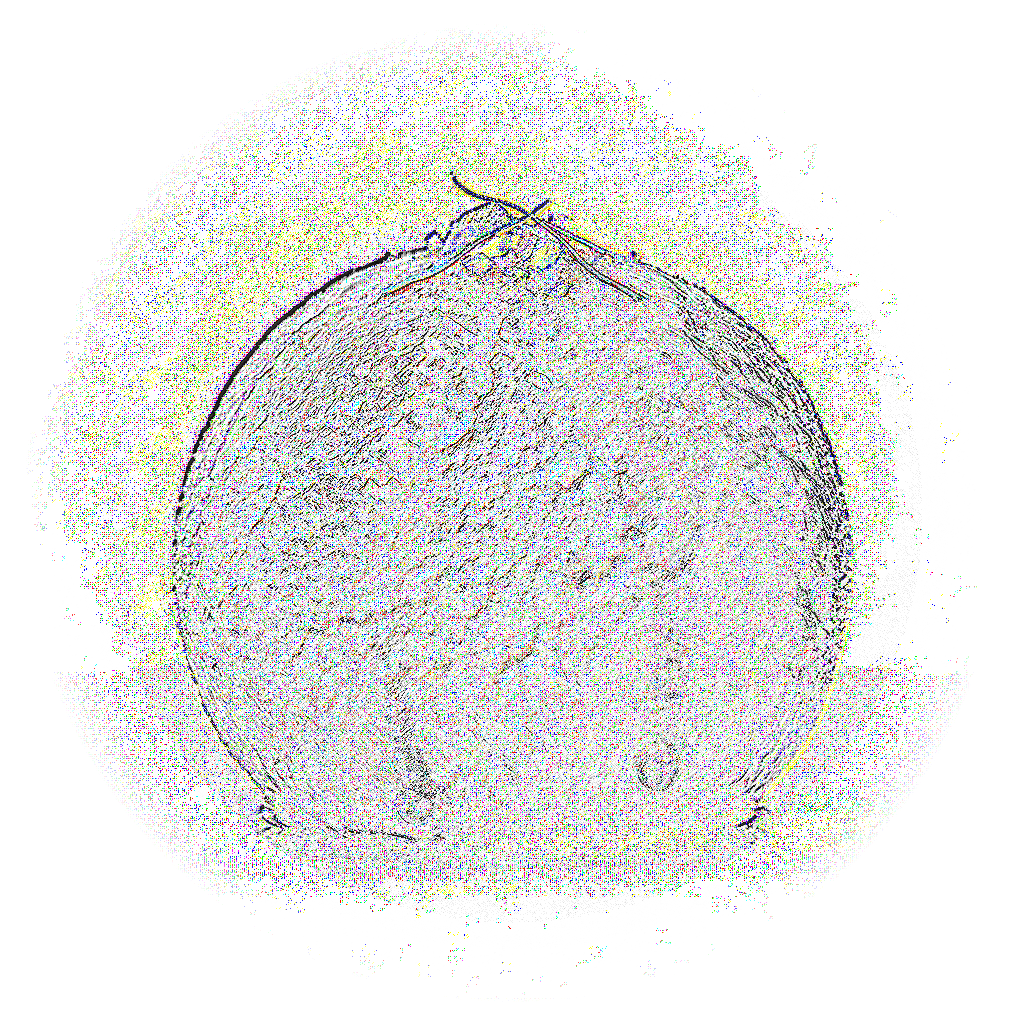
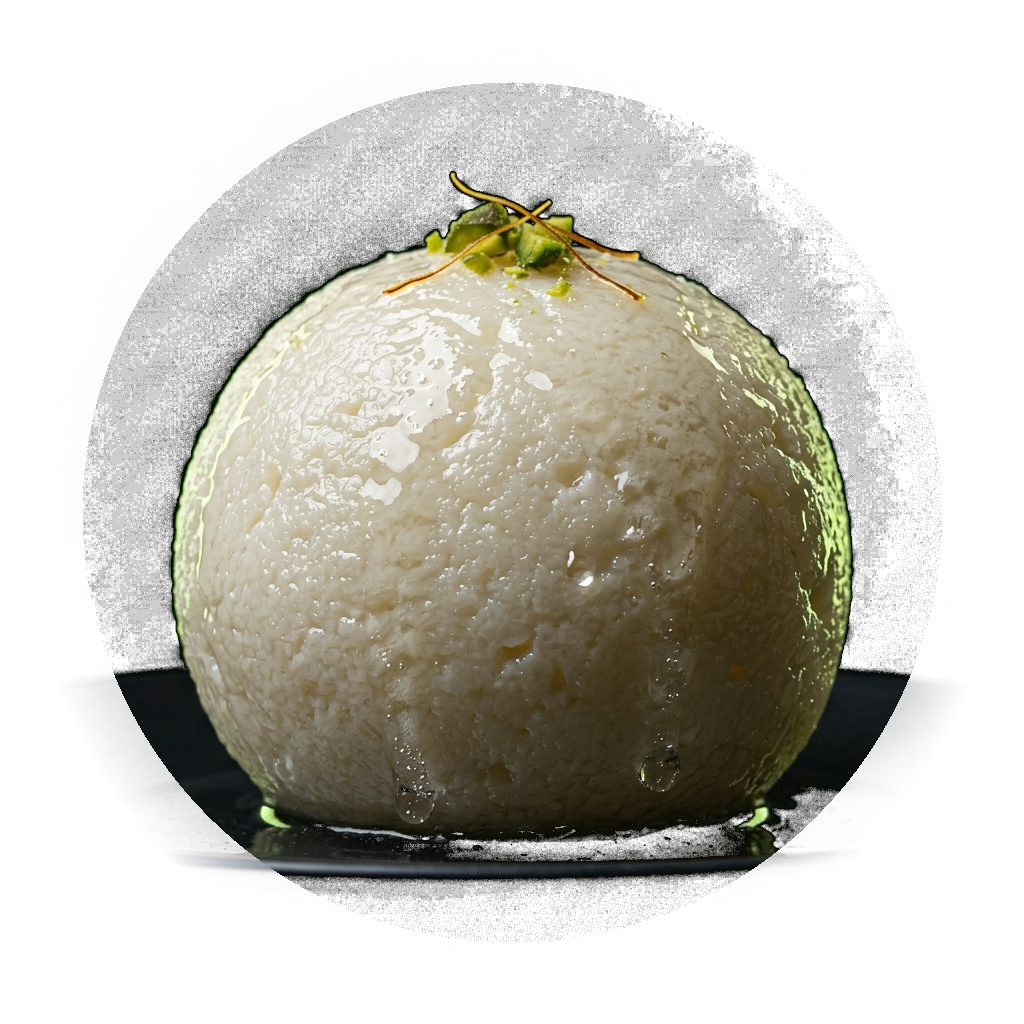
Fix rosogolla-hero.png with clean Pillow RGBA export and remove green aura/fake white circles

diff --git a/app.js b/app.js
@@ -468,8 +468,9 @@ function setupIntroOverlay() {
   let animId = null;
   const startTime = performance.now();
   const heroImg = new Image();
-  heroImg.src = "./rosogolla-hero.png";
+  heroImg.src = "./rosogolla-hero.png?v=17";
   let heroLoaded = false;
+  if (heroImg.complete && heroImg.naturalWidth > 0) heroLoaded = true;
   heroImg.onload = () => { heroLoaded = true; };
   const INTRO_DURATION = 5500; // 5.5 seconds (5-6 seconds duration) // 6.8 seconds total intro
 
@@ -677,46 +678,24 @@ function setupIntroOverlay() {
 
     ctx.restore();
 
-    // 5. The Grand 3D Kinetic King Rosogolla Sweet
+    // 5. The Grand Authentic Rosogolla Photo
     ctx.save();
-    // Ambient drop shadow beneath the sweet
-    const sweetShadow = ctx.createRadialGradient(cx, cy + rad * 0.9, 10, cx, cy + rad * 0.9, rad * 1.55);
-    sweetShadow.addColorStop(0, 'rgba(0, 255, 0, 0.32)');
-    sweetShadow.addColorStop(0.4, 'rgba(0, 0, 0, 0.85)');
+    // Ambient natural drop shadow beneath the sweet
+    const sweetShadow = ctx.createRadialGradient(cx, cy + rad * 0.75, 10, cx, cy + rad * 0.75, rad * 1.3);
+    sweetShadow.addColorStop(0, 'rgba(0, 0, 0, 0.75)');
+    sweetShadow.addColorStop(0.5, 'rgba(0, 0, 0, 0.35)');
     sweetShadow.addColorStop(1, 'rgba(0, 0, 0, 0)');
     ctx.fillStyle = sweetShadow;
     ctx.beginPath();
-    ctx.ellipse(cx, cy + rad * 0.9, rad * 1.35, rad * 0.45, 0, 0, Math.PI * 2);
+    ctx.ellipse(cx, cy + rad * 0.75, rad * 1.2, rad * 0.4, 0, 0, Math.PI * 2);
     ctx.fill();
 
-    if (heroLoaded) {
-      // Draw the hyper-realistic 8K studio photograph of authentic Bengali Rosogolla
+    if (heroLoaded || (heroImg.complete && heroImg.naturalWidth > 0)) {
+      // Draw the real photo of authentic Bengali Rosogolla cleanly and realistically
       const drawSize = rad * 2.85;
       const drawX = cx - drawSize * 0.5;
       const drawY = cy - drawSize * 0.5;
-
-      ctx.save();
-      // Glowing neon lime rim aura
-      ctx.shadowColor = '#00ff00';
-      ctx.shadowBlur = 28;
       ctx.drawImage(heroImg, drawX, drawY, drawSize, drawSize);
-      ctx.restore();
-    } else {
-      // Fallback while decoding
-      const lightX = cx - rad * 0.32;
-      const lightY = cy - rad * 0.35;
-      const sweetGrad = ctx.createRadialGradient(lightX, lightY, rad * 0.06, cx, cy, rad * 1.05);
-      sweetGrad.addColorStop(0, '#ffffff');
-      sweetGrad.addColorStop(0.12, '#fffef6');
-      sweetGrad.addColorStop(0.46, '#fcf4e4');
-      sweetGrad.addColorStop(0.72, '#f3dcba');
-      sweetGrad.addColorStop(1, '#bc9052');
-      ctx.fillStyle = sweetGrad;
-      ctx.shadowColor = 'rgba(0, 255, 0, 0.4)';
-      ctx.shadowBlur = 32;
-      ctx.beginPath();
-      ctx.arc(cx, cy, rad, 0, Math.PI * 2);
-      ctx.fill();
     }
     ctx.restore();
 

diff --git a/public/app.js b/public/app.js
@@ -468,8 +468,9 @@ function setupIntroOverlay() {
   let animId = null;
   const startTime = performance.now();
   const heroImg = new Image();
-  heroImg.src = "./rosogolla-hero.png";
+  heroImg.src = "./rosogolla-hero.png?v=17";
   let heroLoaded = false;
+  if (heroImg.complete && heroImg.naturalWidth > 0) heroLoaded = true;
   heroImg.onload = () => { heroLoaded = true; };
   const INTRO_DURATION = 5500; // 5.5 seconds (5-6 seconds duration) // 6.8 seconds total intro
 
@@ -677,46 +678,24 @@ function setupIntroOverlay() {
 
     ctx.restore();
 
-    // 5. The Grand 3D Kinetic King Rosogolla Sweet
+    // 5. The Grand Authentic Rosogolla Photo
     ctx.save();
-    // Ambient drop shadow beneath the sweet
-    const sweetShadow = ctx.createRadialGradient(cx, cy + rad * 0.9, 10, cx, cy + rad * 0.9, rad * 1.55);
-    sweetShadow.addColorStop(0, 'rgba(0, 255, 0, 0.32)');
-    sweetShadow.addColorStop(0.4, 'rgba(0, 0, 0, 0.85)');
+    // Ambient natural drop shadow beneath the sweet
+    const sweetShadow = ctx.createRadialGradient(cx, cy + rad * 0.75, 10, cx, cy + rad * 0.75, rad * 1.3);
+    sweetShadow.addColorStop(0, 'rgba(0, 0, 0, 0.75)');
+    sweetShadow.addColorStop(0.5, 'rgba(0, 0, 0, 0.35)');
     sweetShadow.addColorStop(1, 'rgba(0, 0, 0, 0)');
     ctx.fillStyle = sweetShadow;
     ctx.beginPath();
-    ctx.ellipse(cx, cy + rad * 0.9, rad * 1.35, rad * 0.45, 0, 0, Math.PI * 2);
+    ctx.ellipse(cx, cy + rad * 0.75, rad * 1.2, rad * 0.4, 0, 0, Math.PI * 2);
     ctx.fill();
 
-    if (heroLoaded) {
-      // Draw the hyper-realistic 8K studio photograph of authentic Bengali Rosogolla
+    if (heroLoaded || (heroImg.complete && heroImg.naturalWidth > 0)) {
+      // Draw the real photo of authentic Bengali Rosogolla cleanly and realistically
       const drawSize = rad * 2.85;
       const drawX = cx - drawSize * 0.5;
       const drawY = cy - drawSize * 0.5;
-
-      ctx.save();
-      // Glowing neon lime rim aura
-      ctx.shadowColor = '#00ff00';
-      ctx.shadowBlur = 28;
       ctx.drawImage(heroImg, drawX, drawY, drawSize, drawSize);
-      ctx.restore();
-    } else {
-      // Fallback while decoding
-      const lightX = cx - rad * 0.32;
-      const lightY = cy - rad * 0.35;
-      const sweetGrad = ctx.createRadialGradient(lightX, lightY, rad * 0.06, cx, cy, rad * 1.05);
-      sweetGrad.addColorStop(0, '#ffffff');
-      sweetGrad.addColorStop(0.12, '#fffef6');
-      sweetGrad.addColorStop(0.46, '#fcf4e4');
-      sweetGrad.addColorStop(0.72, '#f3dcba');
-      sweetGrad.addColorStop(1, '#bc9052');
-      ctx.fillStyle = sweetGrad;
-      ctx.shadowColor = 'rgba(0, 255, 0, 0.4)';
-      ctx.shadowBlur = 32;
-      ctx.beginPath();
-      ctx.arc(cx, cy, rad, 0, Math.PI * 2);
-      ctx.fill();
     }
     ctx.restore();
 

diff --git a/index.html b/index.html
@@ -2,14 +2,14 @@
 <html lang="en">
 <head>
 <meta charset="utf-8"><meta name="viewport" content="width=device-width,initial-scale=1"><meta name="theme-color" content="#090a08">
-<link rel="icon" type="image/svg+xml" href="./rosogolla.svg?v=16">
-<link rel="icon" type="image/png" href="./rosogolla.png?v=16">
-<link rel="apple-touch-icon" href="./rosogolla.png?v=16">
+<link rel="icon" type="image/svg+xml" href="./rosogolla.svg?v=17">
+<link rel="icon" type="image/png" href="./rosogolla.png?v=17">
+<link rel="apple-touch-icon" href="./rosogolla.png?v=17">
 <title>Rosogolla — A space for your curiosity</title>
 <meta name="description" content="An AI-powered workspace for ideas, documents and conversations.">
 <link rel="preconnect" href="https://fonts.googleapis.com"><link rel="preconnect" href="https://fonts.gstatic.com" crossorigin>
 <link href="https://fonts.googleapis.com/css2?family=DM+Sans:wght@400;500;600;700&family=Space+Grotesk:wght@400;500;600;700&display=swap" rel="stylesheet">
-<link rel="stylesheet" href="./style.css?v=16"><script type="module" src="./app.js?v=16"></script>
+<link rel="stylesheet" href="./style.css?v=17"><script type="module" src="./app.js?v=17"></script>
 </head>
 <body>
 <div id="shell">

diff --git a/public/index.html b/public/index.html
@@ -2,14 +2,14 @@
 <html lang="en">
 <head>
 <meta charset="utf-8"><meta name="viewport" content="width=device-width,initial-scale=1"><meta name="theme-color" content="#090a08">
-<link rel="icon" type="image/svg+xml" href="./rosogolla.svg?v=16">
-<link rel="icon" type="image/png" href="./rosogolla.png?v=16">
-<link rel="apple-touch-icon" href="./rosogolla.png?v=16">
+<link rel="icon" type="image/svg+xml" href="./rosogolla.svg?v=17">
+<link rel="icon" type="image/png" href="./rosogolla.png?v=17">
+<link rel="apple-touch-icon" href="./rosogolla.png?v=17">
 <title>Rosogolla — A space for your curiosity</title>
 <meta name="description" content="An AI-powered workspace for ideas, documents and conversations.">
 <link rel="preconnect" href="https://fonts.googleapis.com"><link rel="preconnect" href="https://fonts.gstatic.com" crossorigin>
 <link href="https://fonts.googleapis.com/css2?family=DM+Sans:wght@400;500;600;700&family=Space+Grotesk:wght@400;500;600;700&display=swap" rel="stylesheet">
-<link rel="stylesheet" href="./style.css?v=16"><script type="module" src="./app.js?v=16"></script>
+<link rel="stylesheet" href="./style.css?v=17"><script type="module" src="./app.js?v=17"></script>
 </head>
 <body>
 <div id="shell">
